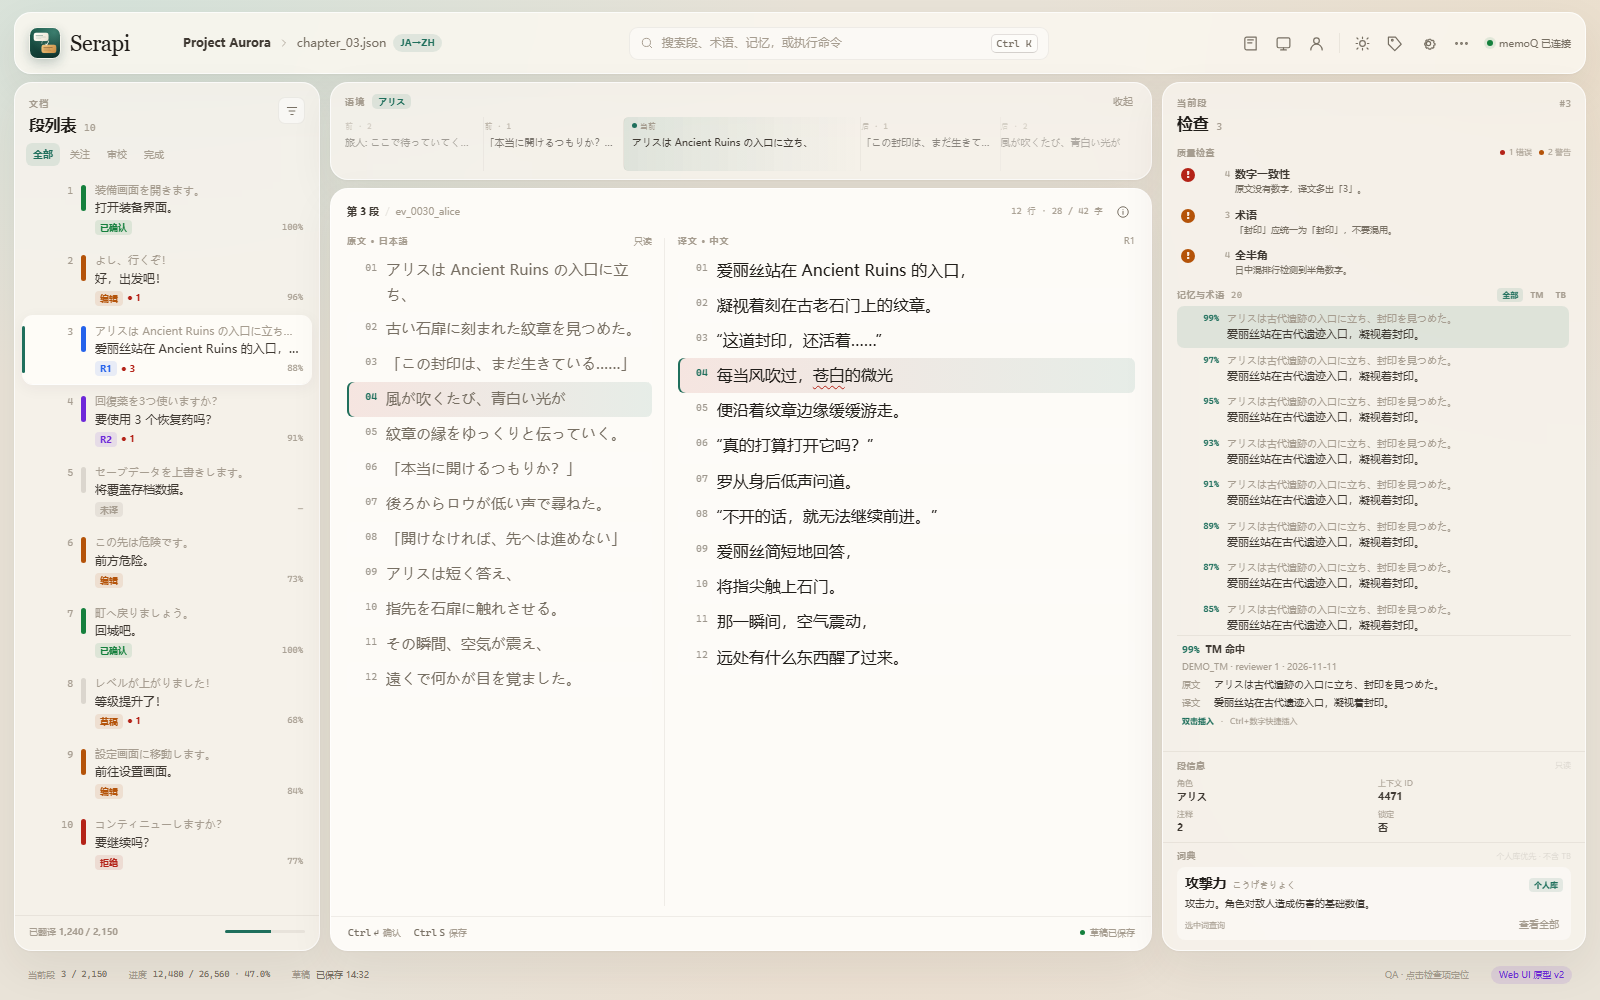
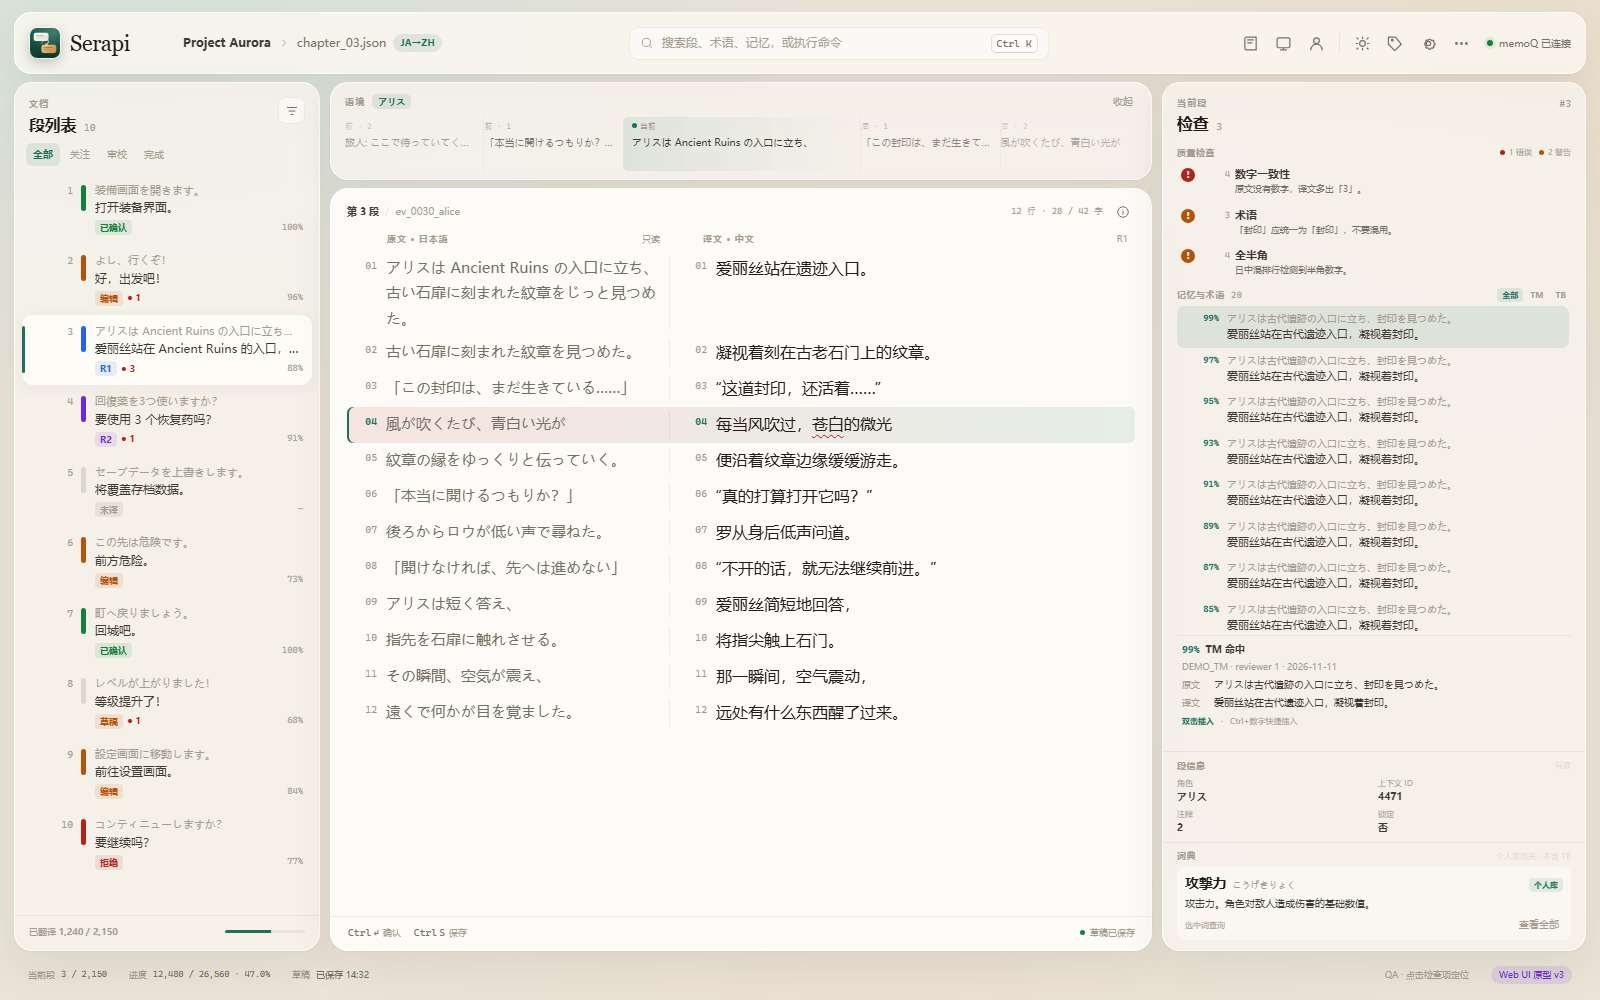
design: prototype v4 — paired line rows
- source/target share one row; row height = max side, no drift after wrapping
- keep current-line/QA row/hover rhythm
- use icon A (dual-segment bridge) in brand

Changed region(s): [[0.2188, 0.217, 0.4062, 0.713], [0.4375, 0.217, 0.5938, 0.744]]

diff --git a/design/web-prototype/app.js b/design/web-prototype/app.js
@@ -10,7 +10,7 @@ const segments = [
     src: "アリスは Ancient Ruins の入口に立ち、古い石扉に刻まれた紋章を見つめた。",
     tgt: "爱丽丝站在 Ancient Ruins 的入口，凝视着刻在古老石门上的纹章。",
     srcLines: [
-      "アリスは Ancient Ruins の入口に立ち、",
+      "アリスは Ancient Ruins の入口に立ち、古い石扉に刻まれた紋章をじっと見つめた。",
       "古い石扉に刻まれた紋章を見つめた。",
       "「この封印は、まだ生きている……」",
       "風が吹くたび、青白い光が",
@@ -24,7 +24,7 @@ const segments = [
       "遠くで何かが目を覚ました。"
     ],
     tgtLines: [
-      "爱丽丝站在 Ancient Ruins 的入口，",
+      "爱丽丝站在遗迹入口。",
       "凝视着刻在古老石门上的纹章。",
       "“这道封印，还活着……”",
       "每当风吹过，苍白的微光",
@@ -123,50 +123,48 @@ function renderContext() {
     <div class="ctx-src">${esc(text)}</div></div>`).join("");
 }
 
-function codeLines(lines, editable, qaLine = -1) {
-  return lines.map((line, i) => {
-    const classes = ["code-line", editable ? "target" : "source"];
+function codeRows(seg, qaLine = -1) {
+  const count = Math.max(seg.srcLines.length, seg.tgtLines.length);
+  const rows = [];
+  for (let i = 0; i < count; i++) {
+    const classes = ["code-row"];
     if (i === state.currentLine) classes.push("current");
     if (i === qaLine) classes.push("qa-row");
-    return `<div class="${classes.join(" ")}" data-line="${i}">
+    const src = seg.srcLines[i] === undefined ? "" : seg.srcLines[i];
+    const tgt = seg.tgtLines[i] === undefined ? "" : seg.tgtLines[i];
+    rows.push(`<div class="${classes.join(" ")}" data-line="${i}">
       <div class="line-no">${String(i + 1).padStart(2, "0")}</div>
-      <div class="line-text" ${editable ? 'contenteditable="true" spellcheck="false"' : ""}>${line}</div>
-    </div>`;
-  }).join("");
+      <div class="line-text source-text">${src}</div>
+      <div class="row-divider"></div>
+      <div class="line-no">${String(i + 1).padStart(2, "0")}</div>
+      <div class="line-text target-text" contenteditable="true" spellcheck="false">${tgt}</div>
+    </div>`);
+  }
+  return rows.join("");
 }
 
 function renderEditor(seg) {
   $("#editorRow").textContent = "第 " + seg.no + " 段";
   $("#editorKey").textContent = seg.key;
   $("#editorStat").textContent = `${seg.srcLines.length} 行 · 28 / 42 字`;
-  $("#sourceScroll").innerHTML = codeLines(seg.srcLines, false, qaIssues[0].line);
-  $("#targetScroll").innerHTML = codeLines(seg.tgtLines, true, qaIssues[0].line);
+  $("#codePane").innerHTML = codeRows(seg, qaIssues[0].line);
   const qaLine = qaIssues.find((q) => q.severity === "error");
   if (qaLine) {
-    const targetLine = $("#targetScroll").children[qaLine.line];
-    if (targetLine) {
-      const text = targetLine.querySelector(".line-text");
-      if (text && text.textContent.includes(qaLine.match)) {
-        text.innerHTML = esc(text.textContent).replace(qaLine.match, `<span class="qa-mark">${qaLine.match}</span>`);
-      }
+    const row = $("#codePane").querySelector(`.code-row[data-line="${qaLine.line}"]`);
+    const text = row && row.querySelector(".target-text");
+    if (text && text.textContent.includes(qaLine.match)) {
+      text.innerHTML = esc(text.textContent).replace(qaLine.match, `<span class="qa-mark">${qaLine.match}</span>`);
     }
   }
-  $$("#targetScroll .line-text").forEach((el) => el.addEventListener("input", () => {
+  $$("#codePane .target-text").forEach((el) => el.addEventListener("input", () => {
     $("#statusNote").textContent = "草稿 · 有未保存修改";
     $("#targetState").textContent = "草稿";
   }));
-  $$("#sourceScroll .code-line, #targetScroll .code-line").forEach((line) => {
-    const n = line.dataset.line;
-    line.addEventListener("mouseenter", () => {
-      $$(`.code-line[data-line="${n}"]`).forEach((row) => row.classList.add("hover"));
-    });
-    line.addEventListener("mouseleave", () => {
-      $$(`.code-line[data-line="${n}"]`).forEach((row) => row.classList.remove("hover"));
-    });
-    line.addEventListener("click", () => {
-      state.currentLine = Number(n);
-      $$(".code-line.current").forEach((row) => row.classList.remove("current"));
-      $$(`.code-line[data-line="${n}"]`).forEach((row) => row.classList.add("current"));
+  $$("#codePane .code-row").forEach((row) => {
+    row.addEventListener("click", () => {
+      state.currentLine = Number(row.dataset.line);
+      $$("#codePane .code-row.current").forEach((r) => r.classList.remove("current"));
+      row.classList.add("current");
     });
   });
   $("#targetState").textContent = statusLabels[seg.status];
@@ -216,11 +214,10 @@ function renderHitDetail() {
 
 function focusQA(index) {
   const q = qaIssues[index]; if (!q) return;
-  $("#targetScroll").querySelectorAll(".qa-mark").forEach((m) => m.classList.remove("warn"));
-  const line = $("#targetScroll").children[q.line];
-  if (line) {
-    line.scrollIntoView({ block: "center", behavior: "smooth" });
-    const text = line.querySelector(".line-text");
+  const row = $("#codePane").querySelector(`.code-row[data-line="${q.line}"]`);
+  if (row) {
+    row.scrollIntoView({ block: "center", behavior: "smooth" });
+    const text = row.querySelector(".target-text");
     if (text) {
       text.innerHTML = esc(text.textContent).replace(q.match, `<span class="qa-mark">${q.match}</span>`);
       text.querySelector(".qa-mark")?.scrollIntoView({ block: "center", behavior: "smooth" });
@@ -236,21 +233,6 @@ function selectSegment(no) {
   $("#statusNote").textContent = `第 ${segments[idx].no} 段 · ${statusLabels[segments[idx].status]}`;
   document.querySelector(`#segList .seg[data-no="${no}"]`)?.scrollIntoView({ block: "nearest" });
 }
-
-/* sync scroll between source/target by ratio (v1: equal line counts in most rows) */
-let syncing = false;
-function syncScroll(from, to) {
-  from.addEventListener("scroll", () => {
-    if (syncing) return;
-    syncing = true;
-    const max = Math.max(1, from.scrollHeight - from.clientHeight);
-    const ratio = from.scrollTop / max;
-    to.scrollTop = ratio * Math.max(0, to.scrollHeight - to.clientHeight);
-    requestAnimationFrame(() => { syncing = false; });
-  });
-}
-syncScroll($("#sourceScroll"), $("#targetScroll"));
-syncScroll($("#targetScroll"), $("#sourceScroll"));
 
 $$("#filters .filter").forEach((btn) => btn.addEventListener("click", () => {
   $$("#filters .filter").forEach((b) => b.classList.toggle("active", b === btn));

diff --git a/design/web-prototype/styles.css b/design/web-prototype/styles.css
@@ -196,41 +196,50 @@ kbd {
 .row-id { color: var(--body); font-weight: 700; }
 .meta-sep { color: var(--line); }
 .editor-stat { font-family: var(--font-mono); font-size: 9px; color: var(--faint); }
-.editor-body { flex: 1; min-height: 0; display: grid; grid-template-columns: minmax(0, 40fr) 26px minmax(0, 60fr); padding: 10px 16px 0; }
-.editor-col { min-height: 0; display: flex; flex-direction: column; }
-.col-head { display: flex; align-items: center; justify-content: space-between; color: var(--faint); font-size: 9px; font-weight: 700; letter-spacing: .1em; text-transform: uppercase; padding-bottom: 5px; }
+.editor-body { flex: 1; min-height: 0; display: flex; flex-direction: column; padding: 8px 16px 0; }
+.cols-head {
+  display: grid; grid-template-columns: 40fr 60fr; gap: 0;
+  color: var(--faint); font-size: 9px; font-weight: 700;
+  letter-spacing: .1em; text-transform: uppercase; padding: 0 4px 5px;
+}
+.col-label { display: flex; align-items: center; justify-content: space-between; padding: 0 3px 0 36px; }
+.col-label.target { padding-left: 40px; }
 .col-hint { color: var(--faint); font-weight: 400; letter-spacing: 0; text-transform: none; font-size: 9px; }
 .code-scroll { flex: 1; min-height: 0; overflow: auto; scrollbar-width: thin; outline: none; }
 .code-scroll:focus-visible { box-shadow: inset 0 0 0 2px var(--jade); border-radius: 7px; }
-.code-line {
-  display: grid; grid-template-columns: 30px minmax(0, 1fr); gap: 7px;
-  min-height: 35px; align-items: start; padding: 3px 5px 3px 0;
-  border-radius: 6px; position: relative;
+/* 每一行同时承载源/译：行高由较高的一侧决定，换行不会把后续行推歪。 */
+.code-row {
+  display: grid;
+  grid-template-columns: 30px minmax(0, 40fr) 1px 30px minmax(0, 60fr);
+  column-gap: 7px;
+  align-items: stretch;
+  min-height: 36px;
+  padding: 3px 4px 3px 0;
+  border-radius: 6px;
   transition: background var(--motion), box-shadow var(--motion);
 }
-.code-line:nth-child(even) { background: rgba(255, 255, 255, .20); }
-.code-line:hover, .code-line.hover { background: var(--row-hover); }
-.code-line.current { background: var(--jade-soft); box-shadow: inset 2px 0 0 var(--jade); }
-.code-line.qa-row { background: var(--red-soft); }
-.code-line.current.qa-row { background: linear-gradient(90deg, var(--red-soft), var(--jade-soft)); }
+.code-row:nth-child(even) { background: rgba(255, 255, 255, .20); }
+.code-row:hover { background: var(--row-hover); }
+.code-row.current { background: var(--jade-soft); box-shadow: inset 2px 0 0 var(--jade); }
+.code-row.qa-row { background: var(--red-soft); }
+.code-row.current.qa-row { background: linear-gradient(90deg, var(--red-soft), var(--jade-soft)); }
 .line-no {
   color: var(--muted); font-family: var(--font-mono); font-size: 10px;
   text-align: right; padding-top: 4px; user-select: none;
   opacity: .72; font-variant-numeric: tabular-nums;
 }
-.code-line.current .line-no { color: var(--jade); opacity: 1; font-weight: 700; }
+.code-row.current .line-no { color: var(--jade); opacity: 1; font-weight: 700; }
+.row-divider { width: 1px; background: var(--line-soft); margin: 2px 0; }
 .line-text {
   color: var(--muted); font-size: 15px; line-height: 1.7;
-  padding: 1px 0 1px 2px; white-space: pre-wrap; word-break: break-word;
-  border-radius: 3px;
+  padding: 1px 2px; white-space: pre-wrap; word-break: break-word;
+  border-radius: 3px; min-height: 30px;
 }
 .line-text:focus { outline: none; background: rgba(255,255,255,.38); box-shadow: 0 0 0 2px rgba(31,111,92,.22); }
-.target-col .line-text { color: var(--ink); font-size: 16px; }
-.target-col .code-line.empty .line-text { color: var(--faint); }
-body.dark .code-line:nth-child(even) { background: rgba(255,255,255,.035); }
+.line-text.target-text { color: var(--ink); font-size: 16px; }
+.code-row.current .target-text { color: var(--ink); }
+body.dark .code-row:nth-child(even) { background: rgba(255,255,255,.035); }
 body.dark .line-text:focus { background: rgba(255,255,255,.06); }
-.editor-divider { display: flex; justify-content: center; }
-.editor-divider span { width: 1px; background: var(--line-soft); margin: 4px 0 2px; }
 .tag { display: inline-flex; align-items: baseline; height: 18px; padding: 0 5px; margin: 0 2px; border-radius: 4px; background: var(--jade-soft); color: var(--jade); font-size: 10px; line-height: 18px; font-family: var(--font-mono); vertical-align: 1px; }
 .qa-mark { text-decoration: underline wavy var(--red); text-decoration-thickness: 1.3px; text-underline-offset: 4px; }
 .qa-mark.warn { text-decoration-color: var(--amber); }

diff --git a/design/web-prototype/index.html b/design/web-prototype/index.html
@@ -1,4 +1,4 @@
-<!doctype html>
+<!doctype html>
 <html lang="zh-CN">
 <head>
 <meta charset="utf-8">
@@ -88,15 +88,11 @@
           <button class="icon-btn tiny" title="段信息"><svg class="icon sm" viewBox="0 0 24 24"><circle cx="12" cy="12" r="9"/><path d="M12 11v5M12 8h.01"/></svg></button>
         </div>
         <div class="editor-body">
-          <div class="editor-col source-col">
-            <div class="col-head"><span>原文 · 日本語</span><span class="col-hint">只读</span></div>
-            <div class="code-scroll" id="sourceScroll"></div>
+          <div class="cols-head">
+            <div class="col-label source">原文 · 日本語 <span class="col-hint">只读</span></div>
+            <div class="col-label target">译文 · 中文 <span class="col-hint" id="targetState">草稿</span></div>
           </div>
-          <div class="editor-divider"><span></span></div>
-          <div class="editor-col target-col">
-            <div class="col-head"><span>译文 · 中文</span><span class="col-hint" id="targetState">草稿</span></div>
-            <div class="code-scroll" id="targetScroll"></div>
-          </div>
+          <div class="code-scroll" id="codePane"></div>
         </div>
         <div class="editor-foot">
           <span><kbd>Ctrl</kbd><kbd>↵</kbd> 确认</span><span><kbd>Ctrl</kbd><kbd>S</kbd> 保存</span>

diff --git a/design/web-prototype/README.md b/design/web-prototype/README.md
@@ -7,19 +7,19 @@
 
 ### 中栏行可读性
 
+- 采用**行级配对**：每一行同时承载原文/译文，行高取两侧较高者；
+- 一侧文本换行只把这一行撑高，**不会把后面的行推歪**；
 - 行号 gutter 更清晰，等宽数字 + 当前行主色；
-- 行高 35px 起，行内 padding；不再是一排挤在一起的文本；
-- 偶数行极淡斑马底，行与行有节奏但不出现重分隔线；
+- 行高 36px 起，行内 padding；偶数行极淡斑马底；
 - 当前行同时在原文/译文两侧高亮，左侧主色标记；
 - QA 行单独用极淡红底 + 波浪线；
-- hover 任意一行，原文和译文同一行同时高亮；
-- 行号、正文、当前行状态形成三级视觉层次。
+- hover 整行高亮，不再靠两侧各自滚动同步。
 
 ### 新图标
 
-- `icon-a.svg` **双段桥**（默认，已用在顶部品牌位）
-- `icon-b.svg` **语际括号**
-- `icon-c.svg` **拱桥**
+- `icon-a.svg` **双段桥**（已选定，用在顶部品牌位）
+- `icon-b.svg` **语际括号**（备选）
+- `icon-c.svg` **拱桥**（备选）
 - 预览页：[icons.html](icons.html)，截图：`icon-preview.png`
 - 三者都是 256px 矢量，带 48/32/16px 适配检查；16px 仍可辨认。
 
